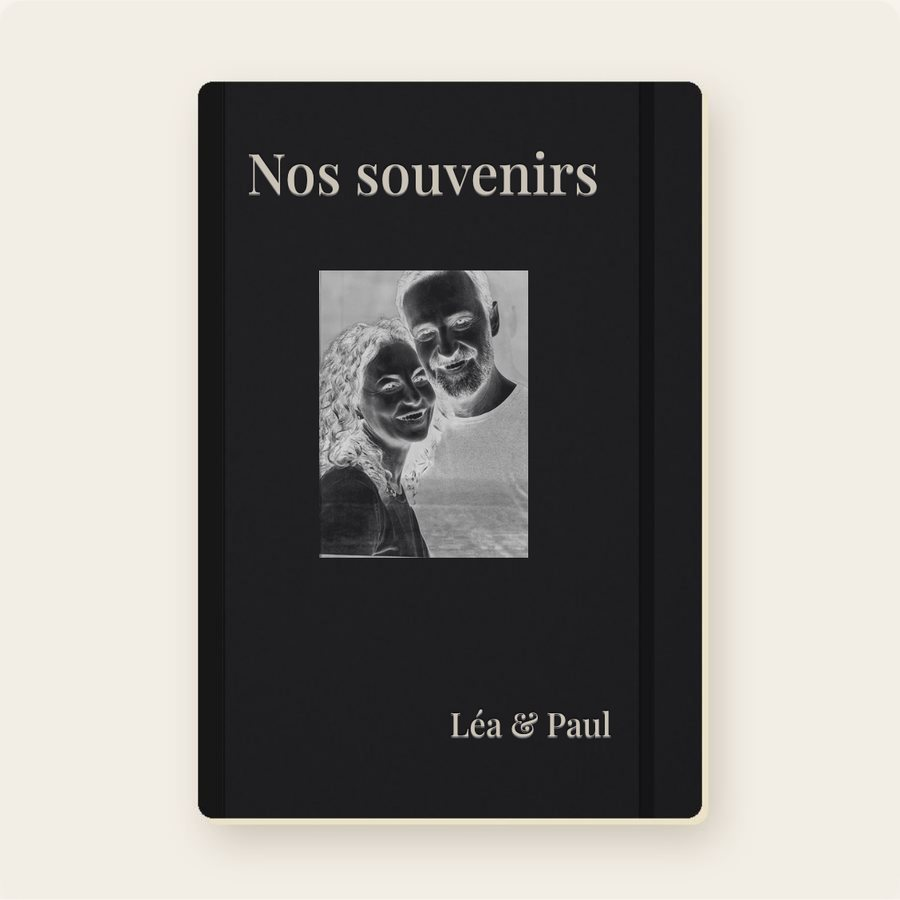
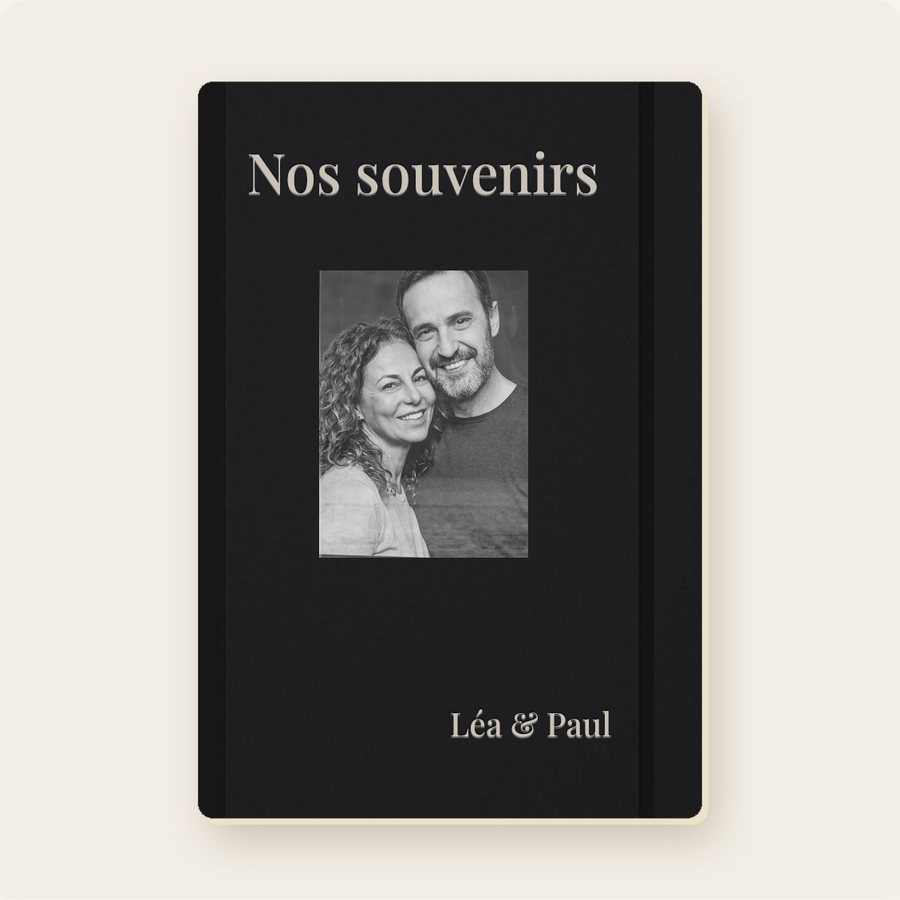
Carnet A5 : une photo sur la couverture noire reste un positif clair (plus de négatif)
Claude-Session: https://claude.ai/code/session_013Nt78VnTBT8S9aqZe85f4z

Changed region(s): [[0.3422, 0.28, 0.5911, 0.6222]]

diff --git a/tools/maquettes/carnet-a5-emplacements.py b/tools/maquettes/carnet-a5-emplacements.py
@@ -94,6 +94,7 @@ CSS = mp_apercu.CSS + mp_apercu.CSS_PLANCHES + r'''
 .cn-el .l1,.cn-el .l2{white-space:nowrap;line-height:1.05;text-shadow:0 1px 0 hsla(0,0%,100%,.35),0 -1px 1px rgba(0,0,0,.3)}.cn-el .l2{margin-top:.25em;letter-spacing:.03em}
 .cn-el img.d{position:absolute;inset:0;width:100%;height:100%;object-fit:contain;mix-blend-mode:multiply;filter:grayscale(1) contrast(1.5);opacity:.9}
 .cn-ov.clair img.d{mix-blend-mode:screen;filter:grayscale(1) invert(1) contrast(1.3);opacity:.82}
+.cn-ov.clair img.g{mix-blend-mode:screen;filter:grayscale(1) contrast(1.15) brightness(.92);opacity:.9} /* 24/10 soir : une PHOTO (logo / portrait) sur le noir reste un positif, clair sur le noir (l'inversion ne vaut que pour les traits des dessins : en négatif, « ça fait vraiment bizarre ») */
 .cn-el.cadre{position:absolute}.cn-el.cadre .t{position:absolute;left:50%;top:50%;width:max-content;white-space:nowrap;line-height:1;--dx:0px;--dy:0px;transform:translate(calc(-50% - var(--dx)),calc(-50% - var(--dy)));text-shadow:0 1px 0 hsla(0,0%,100%,.35),0 -1px 1px rgba(0,0,0,.3)}
 .cn-el img.g{position:absolute;inset:0;width:100%;height:100%;object-fit:contain}.cn-el img.g.pos{object-position:left center}.cn-el img.g.posd{object-position:right center}
 .gallery-thumbs .cn-thdos,.gallery-thumbs .cn-thex{position:relative}.gallery-thumbs .cn-thdos span,.gallery-thumbs .cn-thex span{position:absolute;left:0;right:0;bottom:0;background:rgba(43,38,32,.75);color:#fff;font-size:.6rem;font-weight:700;text-align:center;padding:2px 0}

diff --git a/docs/EN-ATTENTE.md b/docs/EN-ATTENTE.md
@@ -316,7 +316,7 @@ En attente de SA décision :
 - 24/10 soir — **Marque-pages v14 / v13 : images d'exemple de gravure dans la galerie** (4 pour le modèle 1, 3 pour le modèle 2, jamais son nom). En attente de son avis.
 - ✅ 24/10 soir — **« Enregistre les maquettes déjà »** : marque-pages modèle 1 v15, modèle 2 v14, carnet v6, précommande Gestion v2 ENREGISTRÉES telles quelles. Réponses du gérant : places = facture Alibaba (20 / couleur modèle 1, 10 / couleur modèle 2, boîtes 10 / 10 / 10) ; boîte cadeau = colis au prix de l'option choisie (relais / domicile / Express) ; la date d'arrivée : il la donnera. Au « applique » : construire la précommande (catégorie Gestion à part, places, « Arrivage reçu ») + les fiches + le coffret par marque-page.
 - 24/10 soir — gérant : « je pense que je le reçois la semaine prochaine » (semaine du 26/10). Si les marque-pages arrivent avant la mise en ligne, la précommande ne sert pas pour eux : on vend normalement (stock = quantités de la facture). À la réception : vraies photos gravées (face + dos, chaque couleur, les boîtes), pesée, puis « applique ».
-- ✅ 24/10 soir — **Exemples avec une PHOTO de personne gravée** (sa demande, montrés d'abord, puis « Parfait, tu peux mettre dans les images… pour le carnet aussi ») : modèle 1 v17 (3 exemples photo de plus), modèle 2 v16 (3 de plus ; **la face accepte maintenant la photo EN HAUT, +4 €**, le bas de la face reste texte seul), carnet v8 (2 exemples photo). Portraits = recadrages des photos de cristaux du site (`assets/marque-pages/exemples/portraits/`). En attente de son avis.
+- ✅ 24/10 soir — **Exemples avec une PHOTO de personne gravée** (sa demande, montrés d'abord, puis « Parfait, tu peux mettre dans les images… pour le carnet aussi ») : modèle 1 v17 (3 exemples photo de plus), modèle 2 v16 (3 de plus ; **la face accepte maintenant la photo EN HAUT, +4 €**, le bas de la face reste texte seul), carnet v9 (2 exemples photo ; v8 corrigée : la photo sur le noir sortait en négatif). Portraits = recadrages des photos de cristaux du site (`assets/marque-pages/exemples/portraits/`). En attente de son avis.
 - 24/10 soir — **Vidéo 29, teaser « bientôt » des marque-pages** livrée (registre). ⚠ Faite avec les aperçus des maquettes (pas de pièce gravée encore) : à refaire avec les vraies photos gravées à la réception.
 - Précommande côté Gestion : maquette ENREGISTRÉE le 12/10 (v2, catégorie à part) ; au « applique » : construire ; restent à trancher : panier mixte, port des boîtes, délai légal.
 

diff --git a/CLAUDE.md b/CLAUDE.md
@@ -1,5 +1,5 @@
 ## 📓 MAQUETTE CARNET A5 GRAVÉ — ✅ ENREGISTRÉE TELLE QUELLE LE 23/10/2026 (« tu enregistres, tu mets rien en ligne » → « Enregistre ») — RIEN en ligne
-- **Artifact** https://claude.ai/artifact/QSD8HCrAzEqrSEYA7viFMh (v8 au 24/10 soir : exemples photo) · `docs/maquettes/carnet-a5.html` (1,7 Mo, retiré du suivi git le 23/10 : se régénère avec le générateur) · générateur
+- **Artifact** https://claude.ai/artifact/QSD8HCrAzEqrSEYA7viFMh (v9 au 24/10 soir : exemples photo ; sur le noir, une photo reste un POSITIF clair sur le noir, l'inversion ne vaut que pour les traits des dessins : la v8 montrait un négatif, « ça fait vraiment bizarre ») · `docs/maquettes/carnet-a5.html` (1,7 Mo, retiré du suivi git le 23/10 : se régénère avec le générateur) · générateur
   `tools/maquettes/carnet-a5.py <capture> <champ-photo>` (méthode du puzzle photo : fiche ajoutée EN LOCAL à `products.js` + `productInfo.js`, build,
   `next start -p 3140`, capture Playwright, puis `git checkout` — le site n'a pas été touché) · photos `docs/maquettes/assets/carnet/`.
 - **Produit** (Alibaba, Wenzhou Senyuan, reçu #33986068501043880 du 23/10 : 60 carnets) : A5 21,2 × 14,5 cm, couverture rigide aspect cuir, élastique,
